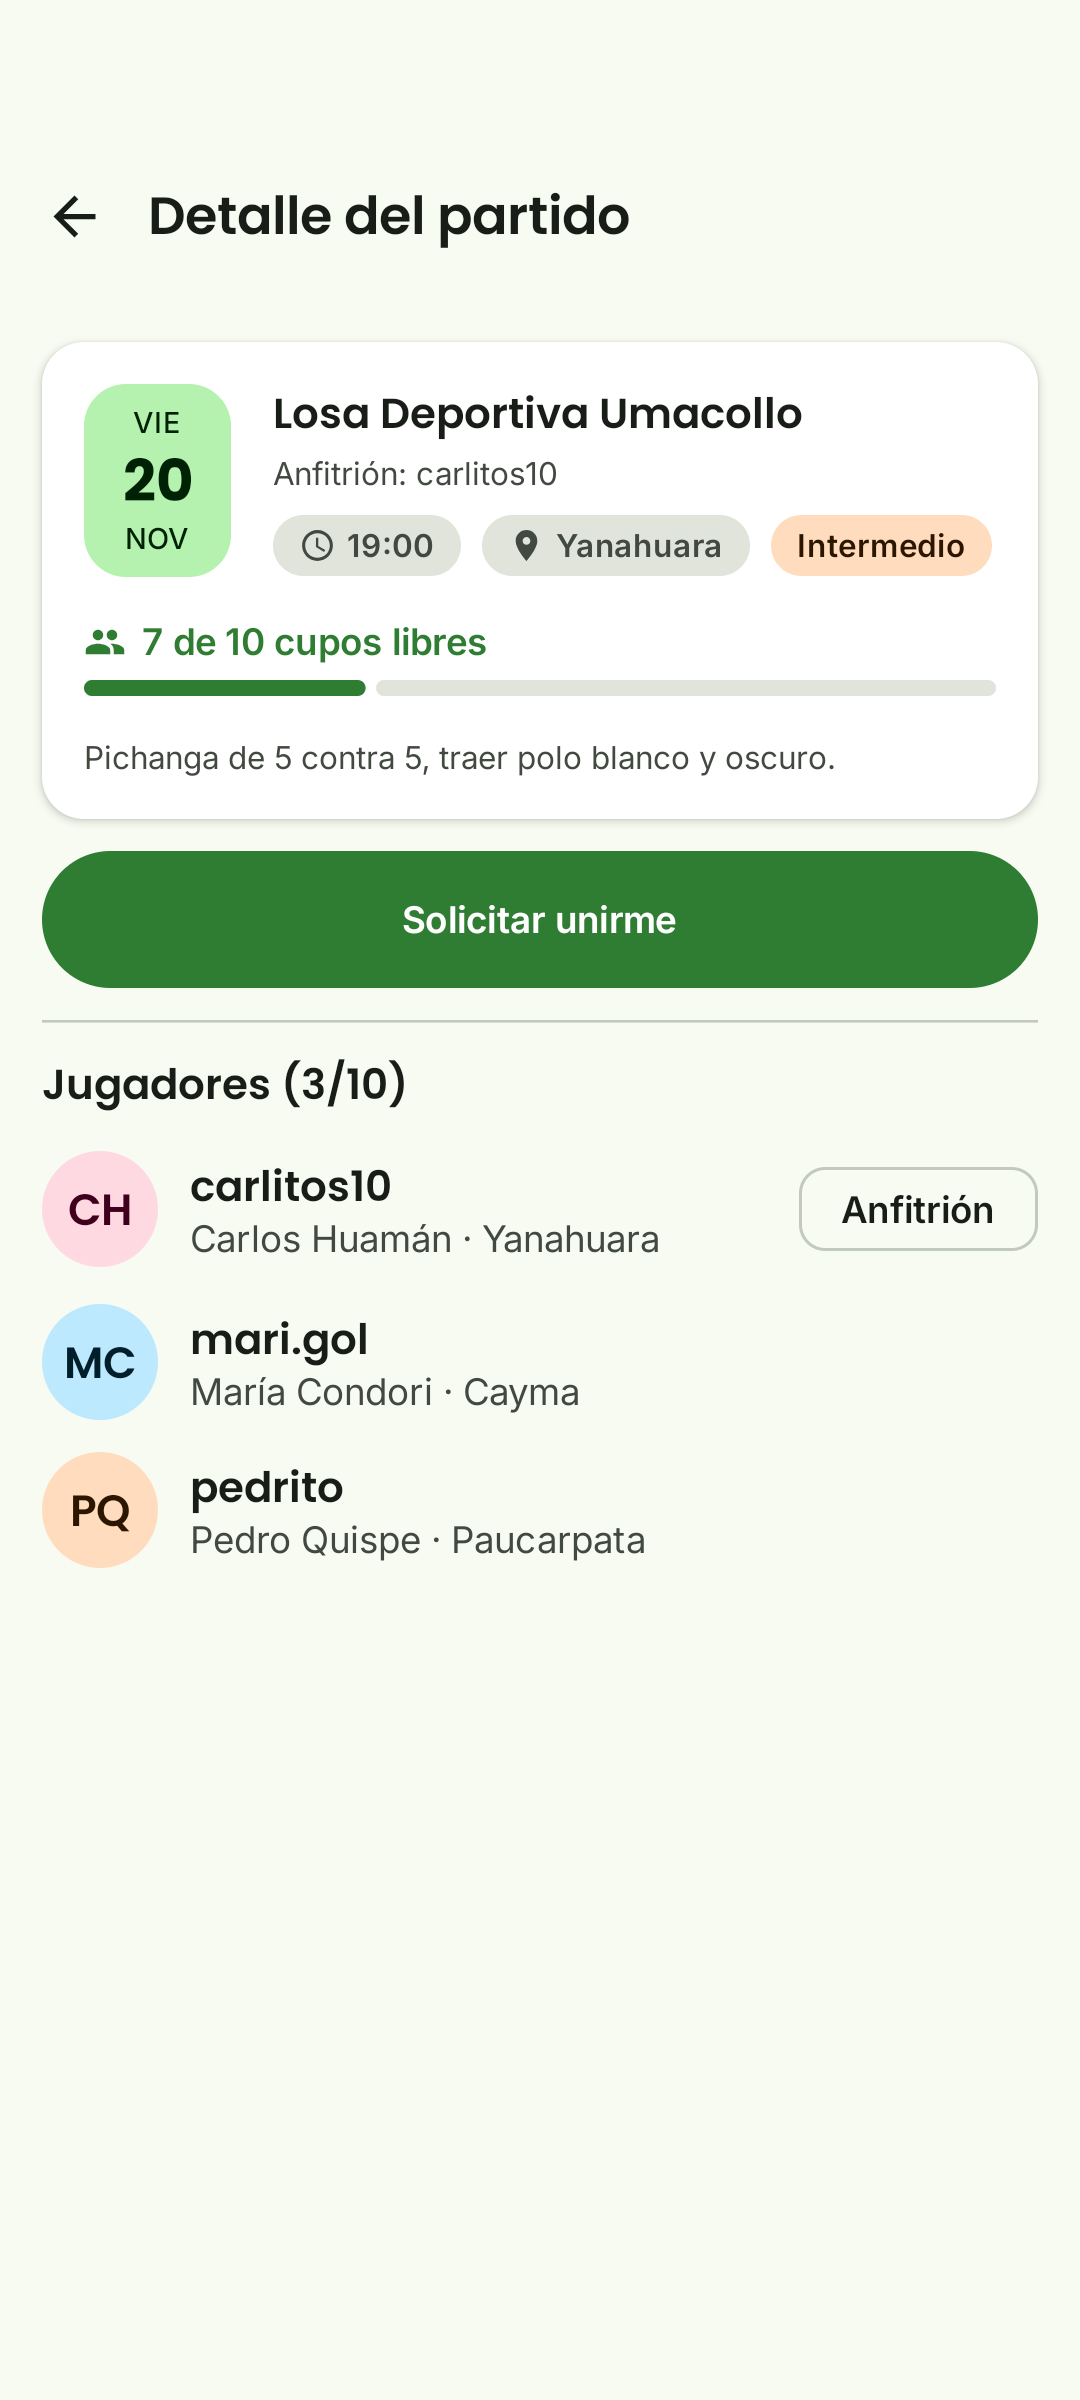
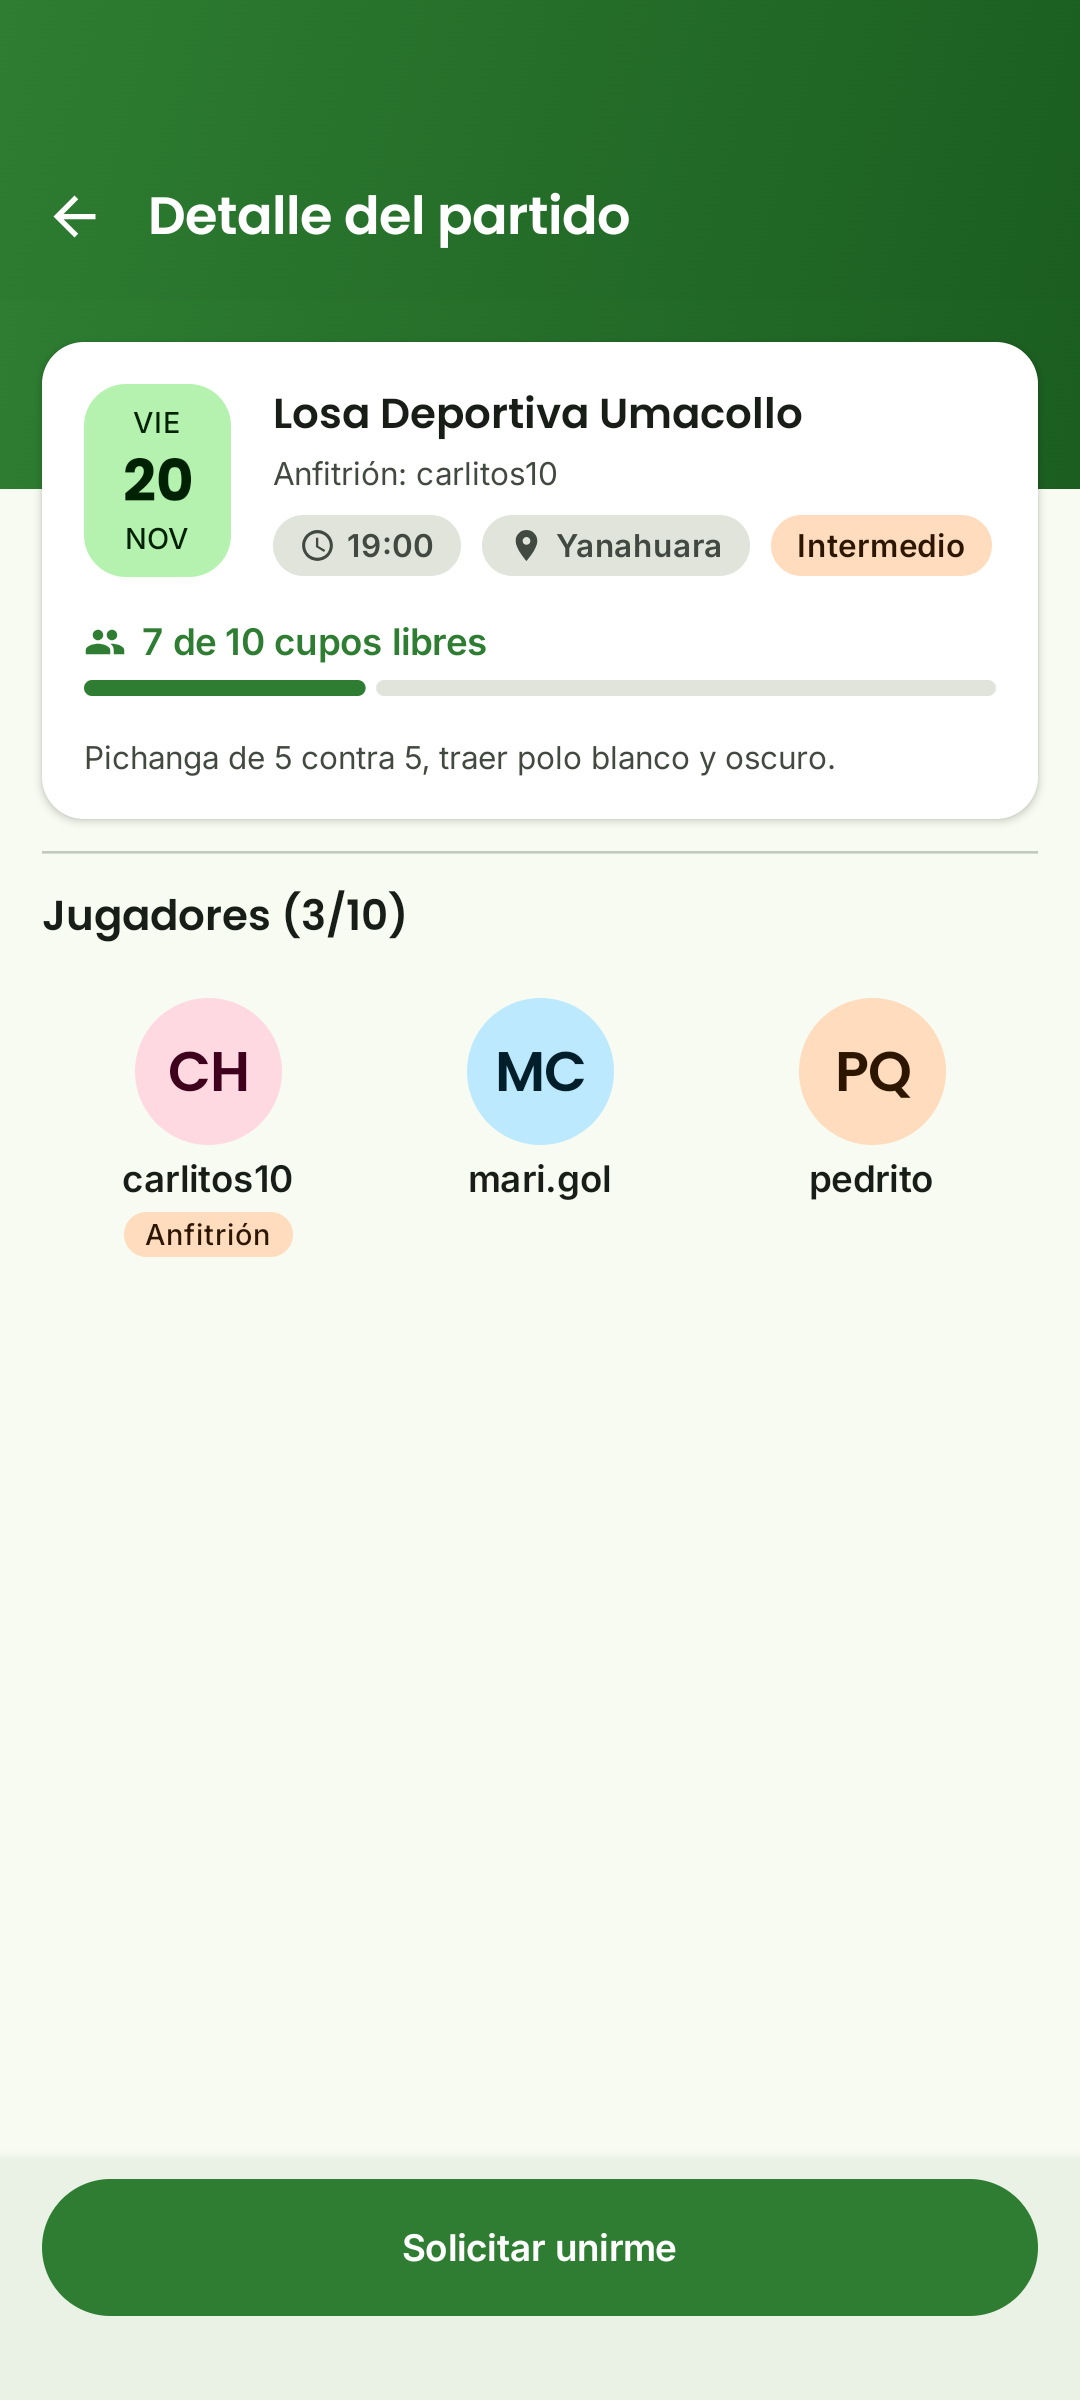
docs: capturas con el diseño completo

diff --git a/README.md b/README.md
@@ -79,7 +79,11 @@ Proyecto final del curso de Desarrollo de Aplicaciones Móviles.
   **Poppins** y textos en **Inter** (incluidas en la app, licencia OFL en
   `licencias/`), tarjetas blancas con sombra suave, avatares con las iniciales
   del jugador y tarjetas de partido con la fecha en grande, chips de hora,
-  distancia y nivel (con color) y una barra de cupos.
+  distancia y nivel (con color) y una barra de cupos. Barra superior con
+  degradado verde y el logo, perfiles con portada verde, puntajes dentro de un
+  anillo de 1 a 5, habilidades en dos columnas, jugadores del partido en una
+  grilla de avatares con el botón para unirse fijo abajo, y estados vacíos y de
+  error con ilustraciones propias.
 
 > Cuentas, partidos, solicitudes, amigos, grupos, invitaciones y estadísticas
 > se guardan en **Firebase** y se actualizan en tiempo real entre teléfonos. Las
@@ -360,6 +364,11 @@ adb emu geo fix -71.545 -16.372
 |---|---|---|---|
 | <img src="capturas/login_claro.png" width="200" /> | <img src="capturas/mapa_claro.png" width="200" /> | <img src="capturas/detalle_partido_claro.png" width="200" /> | <img src="capturas/perfil_jugador_claro.png" width="200" /> |
 | <img src="capturas/login_oscuro.png" width="200" /> | <img src="capturas/mapa_oscuro.png" width="200" /> | <img src="capturas/detalle_partido_oscuro.png" width="200" /> | <img src="capturas/perfil_jugador_oscuro.png" width="200" /> |
+
+| Mi perfil | Estado vacío |
+|---|---|
+| <img src="capturas/mi_perfil_claro.png" width="200" /> | <img src="capturas/estado_vacio_claro.png" width="200" /> |
+| <img src="capturas/mi_perfil_oscuro.png" width="200" /> | <img src="capturas/estado_vacio_oscuro.png" width="200" /> |
 
 Las capturas de las pantallas internas se generan con los datos de prueba
 (usuario demo, sin Firebase):
